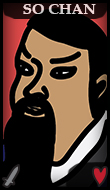
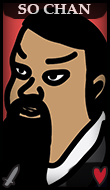
Added Character 3, 4, 5

diff --git a/gui.py b/gui.py
@@ -12,13 +12,14 @@ window.title("PCSS Project - Lukas")
 window.geometry("1200x700")
 
 cardObjects, playerCards, shopCards, boardArray, shopArray = [], [], [], ["", "", "", "", "", "", "", "", "", ""], ["", "", "", "", ""]
-cardImg = []
 
 for x in range(len(Assets.cardImg)):
     Assets.cardImg[x] = ImageTk.PhotoImage(Assets.cardImg[x])
 
 for x in range(len(Assets.shopImg)):
     Assets.shopImg[x] = ImageTk.PhotoImage(Assets.shopImg[x])
+
+cardImgLen = len(Assets.cardImg)-1
 
 # LOADING IMAGES
 bgPT = ImageTk.PhotoImage(Assets.bg1)
@@ -36,7 +37,7 @@ runCheck = False
 def shopBuy(shopNumber):
     cardPlaceStrHold = ""
     if len(cardObjects) < 5:
-        for i in range(4):
+        for i in range(cardImgLen+1):
             if shopArray[shopNumber] == i:
                 for c in range(5):
                     if (boardArray[c] == ""):
@@ -57,7 +58,7 @@ def shopBuy(shopNumber):
 
 def shopRandom():
     for i in range(5):
-        rand = random.randint(0, 3)
+        rand = random.randint(0, cardImgLen)
         shopCards[i].configure(image=Assets.shopImg[rand])
         shopArray[i] = rand
     if len(cardObjects) > 0:
@@ -66,12 +67,12 @@ def shopRandom():
 
 def endRound():
     while len(cardObjects)<5:
-        rand = random.randint(0, 4)
+        rand = random.randint(0, cardImgLen)
         shopBuy(rand)
 
     if len(cardObjects)<6:
         for c in range(5):
-            rand = random.randint(0, 3)
+            rand = random.randint(0, cardImgLen)
             if (boardArray[c+5] == ""):
                 cardPlaceStrHold = "cardPlace" + str(c)
                 cardPlaceStrHold = cards.Cards()

diff --git a/Assets.py b/Assets.py
@@ -32,5 +32,20 @@ cardImg.append(CDchinese2)
 SPchinese2 = Image.open("Assets/chinese2shop.jpg")
 shopImg.append(SPchinese2)
 
+CDchinese3 = Image.open("Assets/chinese3lowUI.jpg")
+cardImg.append(CDchinese3)
+SPchinese3 = Image.open("Assets/chinese3shop.jpg")
+shopImg.append(SPchinese3)
+
+CDchinese4 = Image.open("Assets/chinese4lowUI.jpg")
+cardImg.append(CDchinese4)
+SPchinese4 = Image.open("Assets/chinese4shop.jpg")
+shopImg.append(SPchinese4)
+
+CDchinese5 = Image.open("Assets/chinese5lowUI.jpg")
+cardImg.append(CDchinese5)
+SPchinese5 = Image.open("Assets/chinese5shop.jpg")
+shopImg.append(SPchinese5)
+
 CDunknown = Image.open("Assets/unknown1low.jpg")
 assetsImg.append(bg1)
